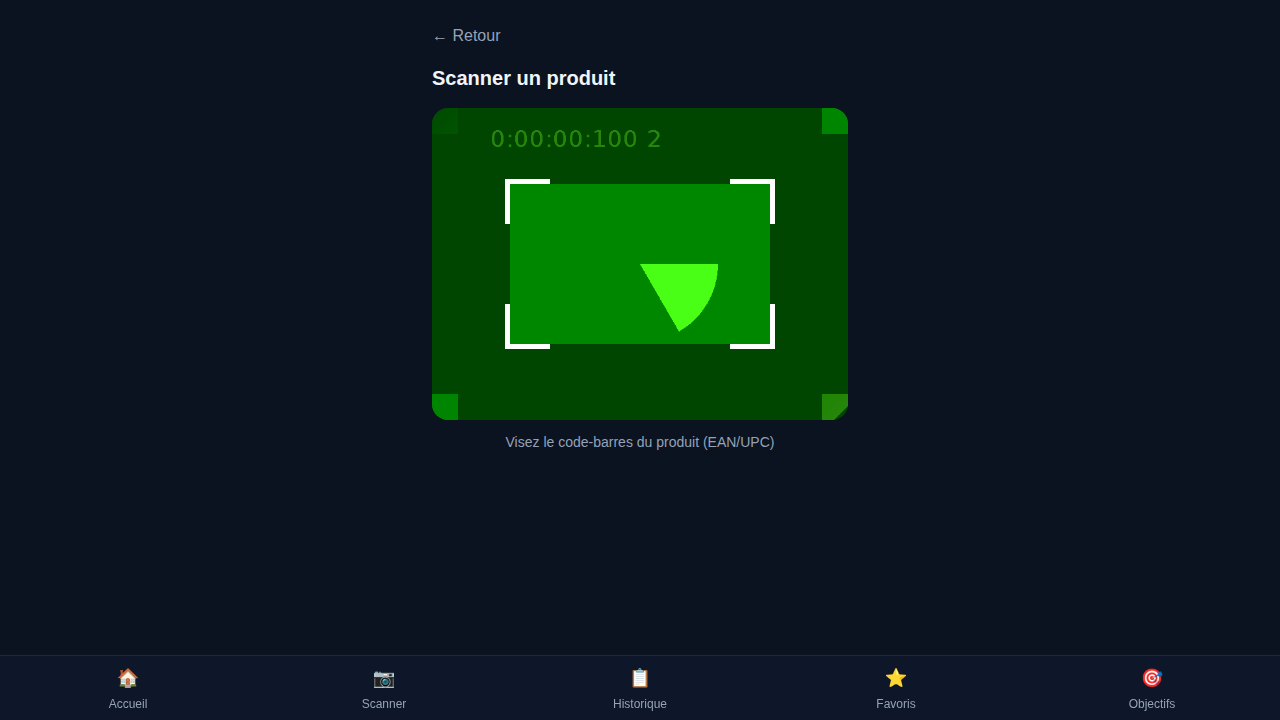
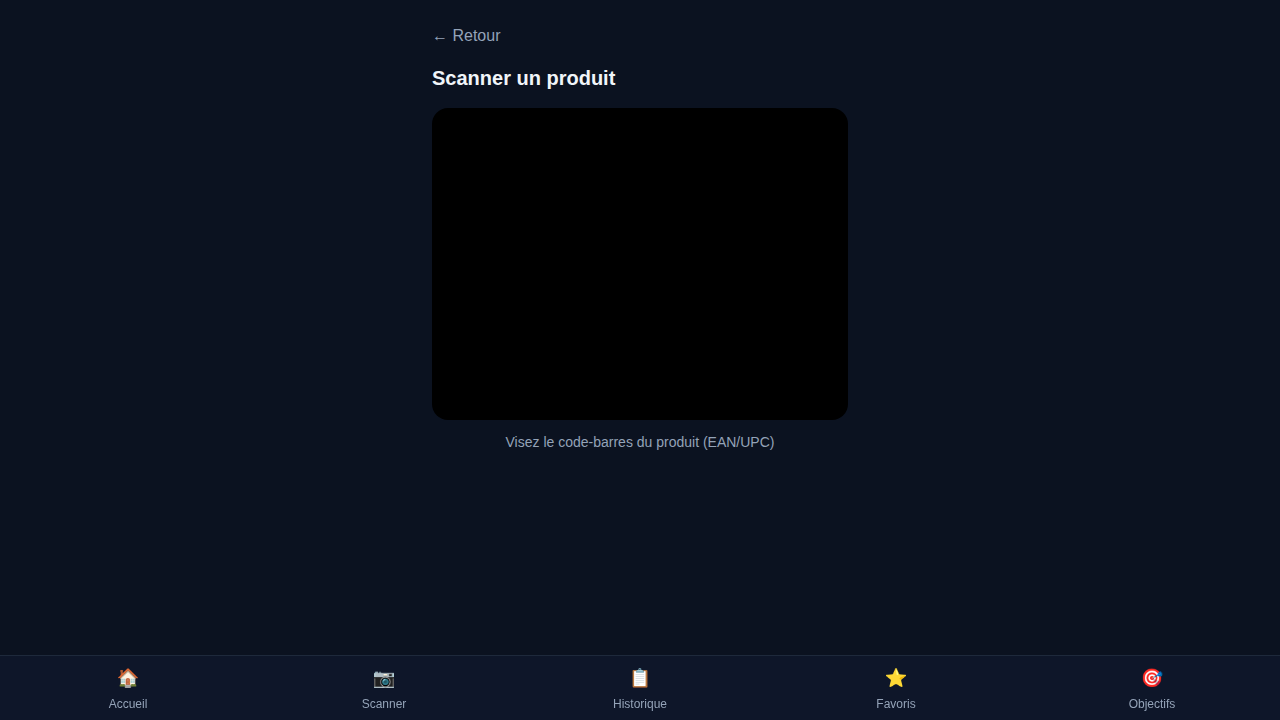
Fix CI: stop keying basePath off the ambient GITHUB_ACTIONS env var (#2)
* Fix CI: bump Node to 22 for jsdom 30 compatibility

jsdom 30 (via undici) requires newer Node internals than the CI runner's
Node 20 provides, failing every Vitest run with "webidl.util.markAsUncloneable
is not a function". Node 22 (LTS, same version used locally) resolves it.

Claude-Session: https://claude.ai/code/session_01Yc2QsBuCNDThqoNcR9E8b1

* Fix CI: stop keying basePath off the ambient GITHUB_ACTIONS env var

GITHUB_ACTIONS is "true" in every job of every workflow run, not just the
one producing the Pages artifact. Branching basePath on it meant the test
job's `next dev` (used as Playwright's webServer) also served everything
under "/Track-app" instead of "/", so requests to the bare root 404'd and
the E2E run timed out waiting for a ready response.

Introduces a dedicated NEXT_PUBLIC_USE_PAGES_BASE_PATH flag, set only on
the build job's `npm run build` step, and bumps the Playwright webServer
timeout for extra margin on slower CI runners.

Claude-Session: https://claude.ai/code/session_01Yc2QsBuCNDThqoNcR9E8b1

---------

Changed region(s): [[0.3125, 0.1528, 0.6875, 0.5806]]

diff --git a/playwright.config.ts b/playwright.config.ts
@@ -52,6 +52,6 @@ export default defineConfig({
     command: "npm run dev",
     url: "http://localhost:3000",
     reuseExistingServer: !process.env.CI,
-    timeout: 60_000,
+    timeout: 120_000,
   },
 });
